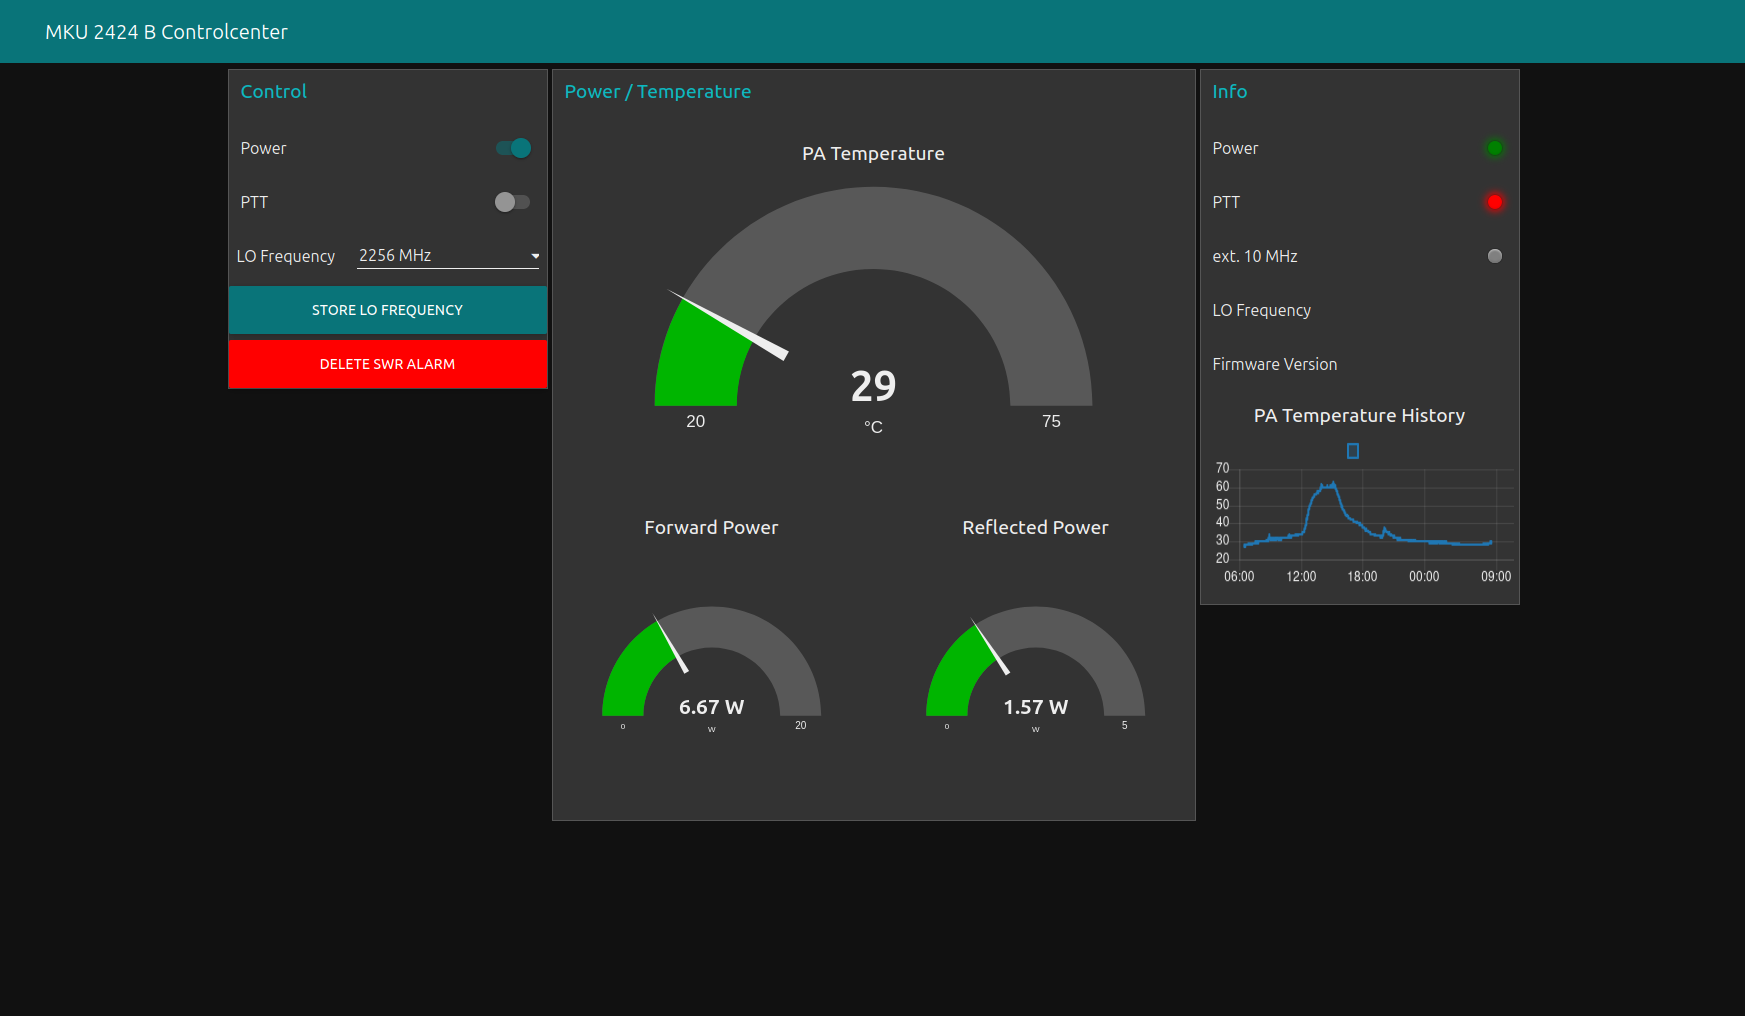
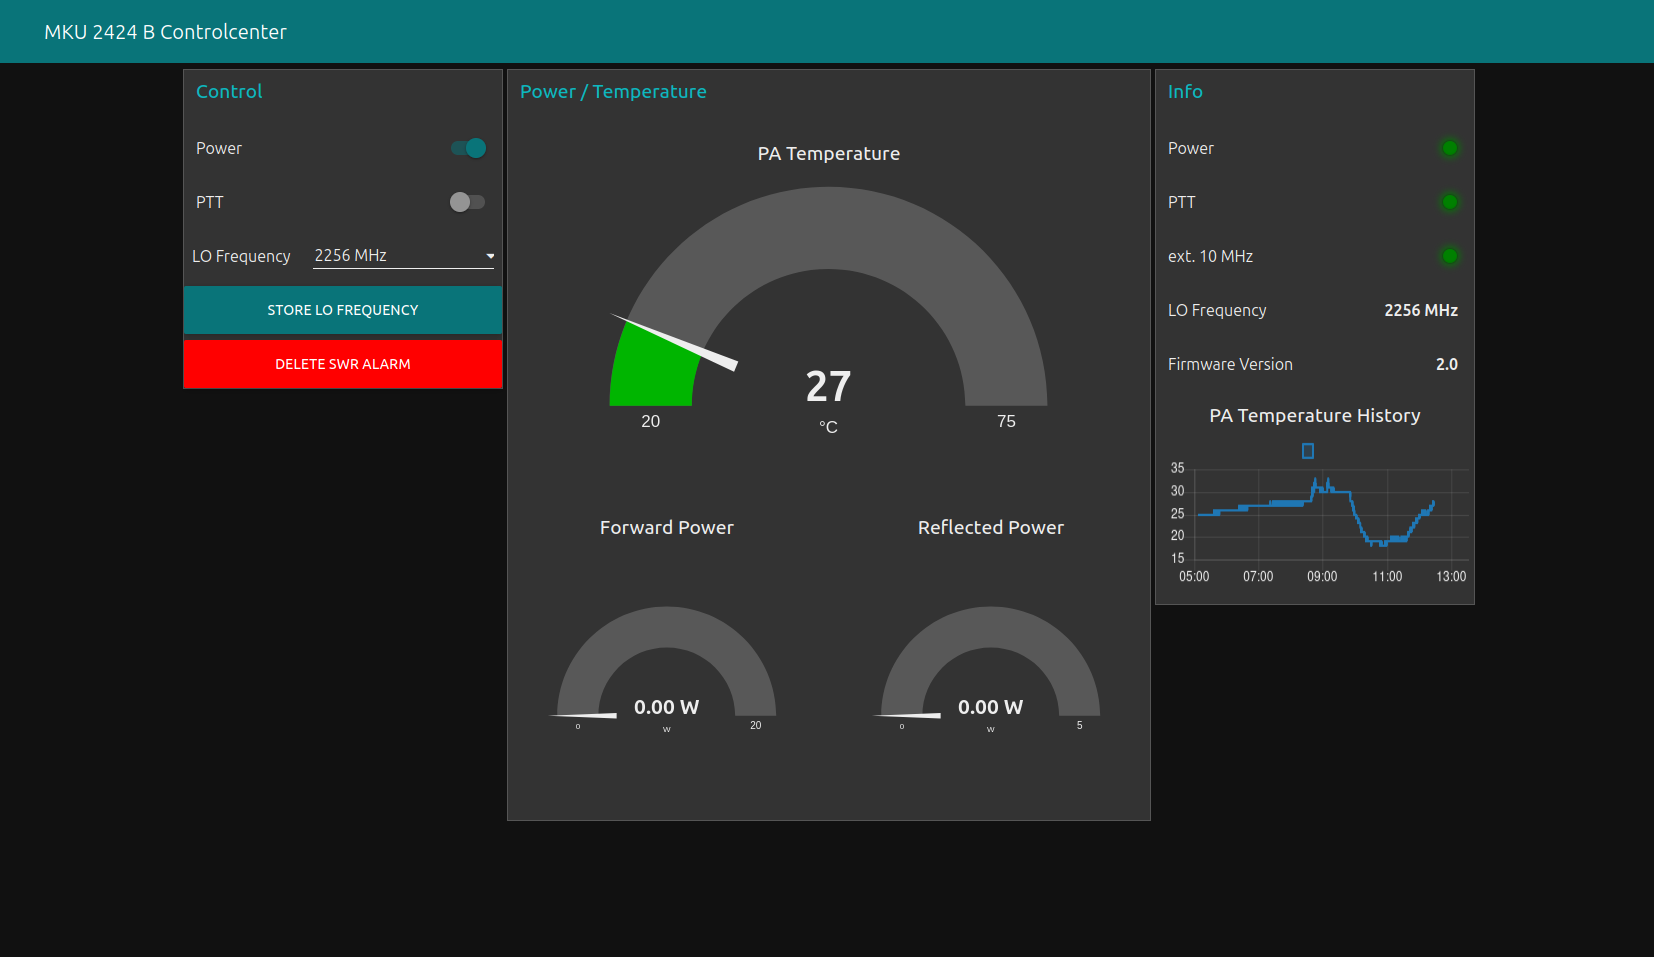
Added ext ref to trigger

diff --git a/README.md b/README.md
@@ -25,6 +25,11 @@ This works with firmware version 2.0 of the converter. Other firmware versions h
 * node-red-dashboard
 * node-red-node-serialport
 
+## Versions
+
+* v0.1 Initial release
+* v0.2 Added reading of ext ref to trigger. Added LO and FW version trigger to power and LO buttons.
+
 ## Contributing
 
 Contributors are welcome to file a pull request against the dev branch of this repository.
